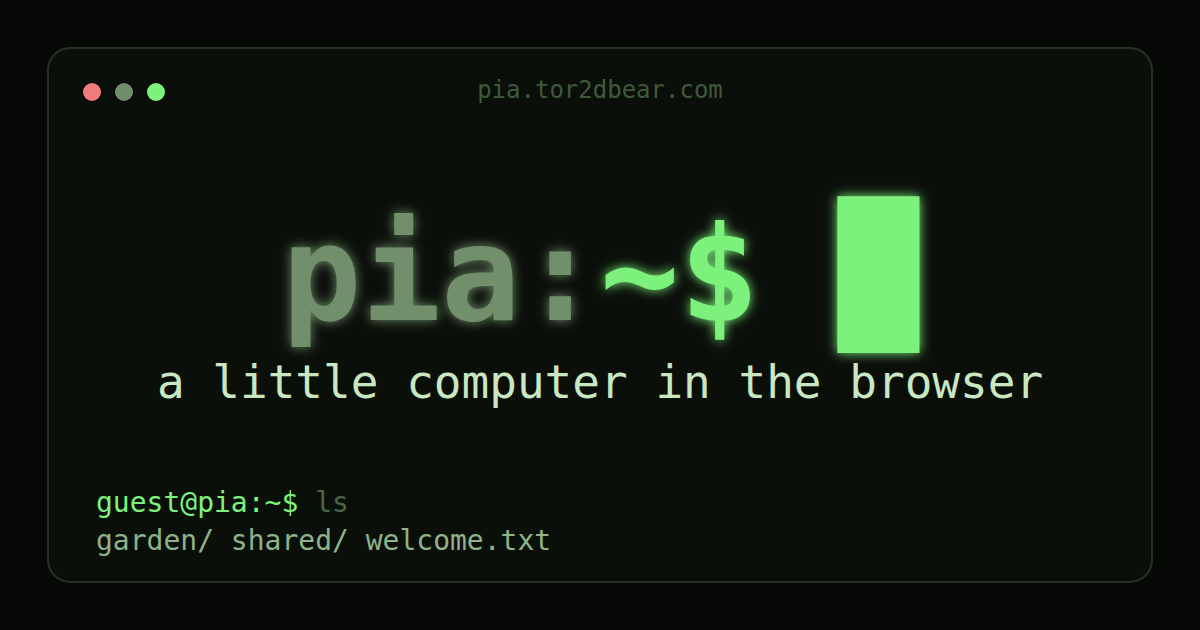
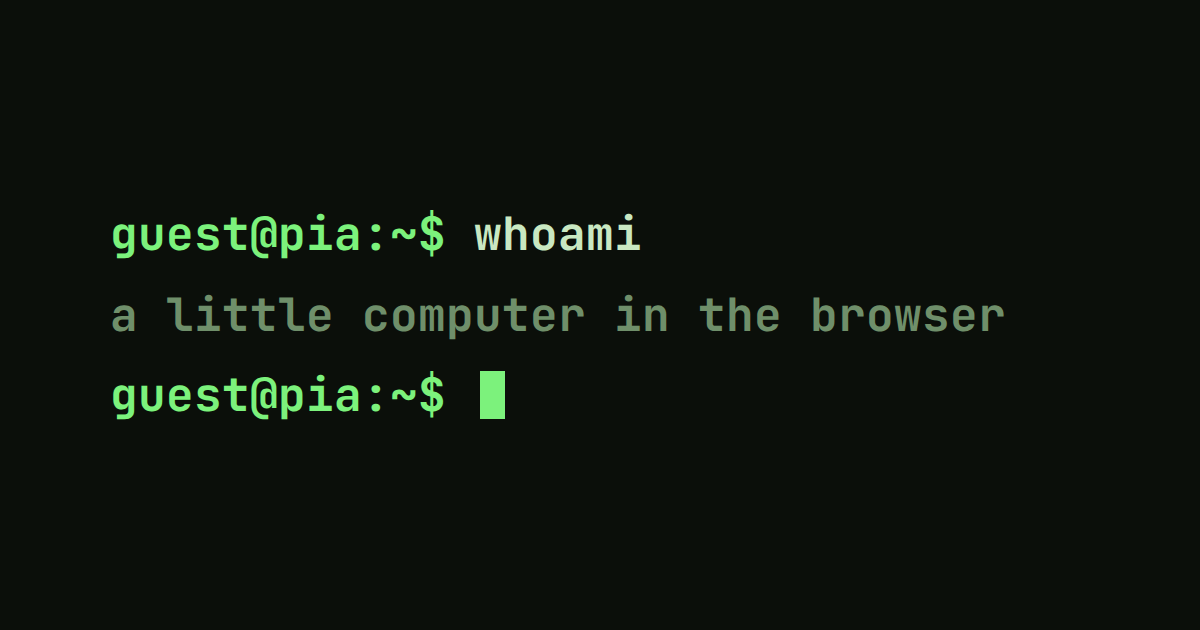
Redesign visual identity: crisp p_ mark + clean boot-session og
Replace the favicon, app icon and social preview with a sharper, more
terminal-native identity built from the app's own typeface.

- Mark is the real JetBrains Mono lowercase "p" glyph (vector paths, so
  it stays crisp and font-independent in browser tabs) followed by an
  underscore cursor in accent green — the prompt, distilled to two
  glyphs. Replaces the earlier pixelated treatment.
- favicon.svg / favicon-32.png: p_ on a rounded dark tile.
- apple-touch-icon.png: full-bleed dark, mark centered in the maskable
  safe zone.
- og.png: a clean terminal boot session (guest@pia:~$ whoami → tagline →
  fresh prompt) instead of the busier previous preview; og:image:alt
  updated to match.

Claude-Session: https://claude.ai/code/session_01UzQeXfvmhdNZWNm2MZBZvB

diff --git a/index.html b/index.html
@@ -32,7 +32,7 @@
     <meta property="og:image" content="https://pia.tor2dbear.com/og.png" />
     <meta property="og:image:width" content="1200" />
     <meta property="og:image:height" content="630" />
-    <meta property="og:image:alt" content="pia:~$ — a little computer in the browser" />
+    <meta property="og:image:alt" content="guest@pia:~$ — a little computer in the browser" />
     <meta name="twitter:card" content="summary_large_image" />
     <meta name="twitter:title" content="PIA — a little computer in the browser" />
     <meta